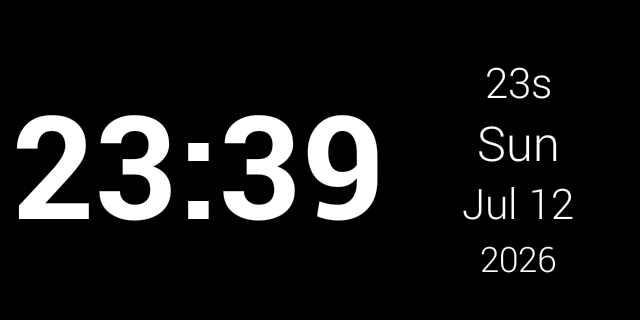
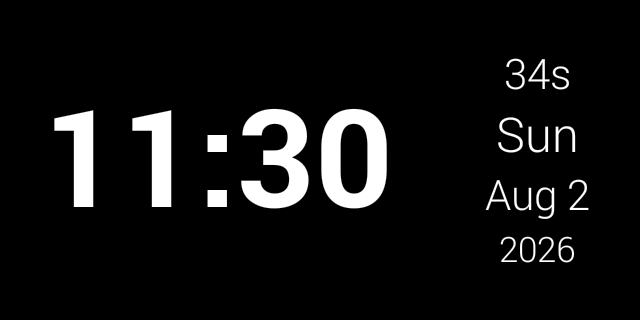
Refresh the screenshots and the settings list in the README
The screenshots were from 0.2.0 and the settings screen has changed out of recognition since: it now
carries the font library and a block per field with its own font and its own bold, italic and
underline. Taken again on Android 4.4.2, from a clean install so what they show is what someone sees
on first run — including the hour and minute arriving bold.

The README's settings list was also in an order the screen has never used, with start-when-charging
third when it sits at the bottom. It follows the screen now, and says the hour and minute start
bold and that it can be turned off.

Nothing that goes into the APK is touched, so the released binary is unchanged and no release is
needed. The fastlane copies are updated with the same three images, so the two sets do not drift;
F-Droid reads them at a build commit, so they reach the store with whatever ships next.

diff --git a/README.md b/README.md
@@ -67,7 +67,7 @@ Screenshots taken on Android 4.4.2.
 
 | Landscape (wide) | Portrait (tall) |
 |---|---|
-| <img src="docs/screenshots/landscape.png" alt="Landscape: bold 23:39 on the left, seconds, weekday, date and year on the right" width="420"> | <img src="docs/screenshots/portrait.png" alt="Portrait: bold hour and minute stacked, weekday with date, year and seconds" width="210"> |
+| <img src="docs/screenshots/landscape.png" alt="Landscape: a large bold HH:MM on the left, with seconds, weekday, date and year in a column on the right" width="420"> | <img src="docs/screenshots/portrait.png" alt="Portrait: bold hour and minute stacked, then the weekday with the date, then the year and the seconds" width="210"> |
 
 The hour and the minute take every pixel the other lines do not need. The remaining lines are
 scaled to the space that is left, so nothing is ever clipped. All text is white. Weight is one of the
@@ -87,20 +87,23 @@ per-field decorations; the hour and the minute have it on to begin with, and you
 
 Long press the clock to open the settings screen:
 
-<img src="docs/screenshots/settings.png" alt="Settings: show seconds, date format, start when charging" width="240">
+<img src="docs/screenshots/settings.png" alt="Settings: a font for each field, each with bold, italic and underline" width="240">
 
+
+In the order they appear on the screen:
 
 - **Show seconds** — on or off. With the seconds off, the hour and the minute grow into the freed space.
 - **Date format** — `Jul 12` (abbreviated month name) or `07-12` (numeric).
-- **Start when the charger is connected** — on or off.
 - **Font** — the clock draws in the system font unless you add your own. *Add a font from a file*
   opens the system file picker; the file is copied into the app, so reteclock never asks for
   storage permission and the font keeps working if you move or delete the original. The list shows
   each font's size and the total they occupy, and any of them can be deleted.
 - **Each field: font and decoration** — the hour, the minute, the seconds, the weekday, the month
-  and day, and the year each choose their own font and their own bold, italic and underline. Sizes
-  stay worked out by the app. Deleting a font that a field is using drops that field back to the
-  system font. A font file holds one weight and one slant, so bold and italic are synthesised.
+  and day, and the year each choose their own font, and their own **B**old, **I**talic and
+  **U**nderline. The hour and the minute start bold; you can turn that off. Sizes stay worked out
+  by the app. Deleting a font that a field is using drops that field back to the system font. A
+  font file holds one weight and one slant, so bold and italic are synthesised.
+- **Start when the charger is connected** — on or off.
 
 ## How it starts
 
